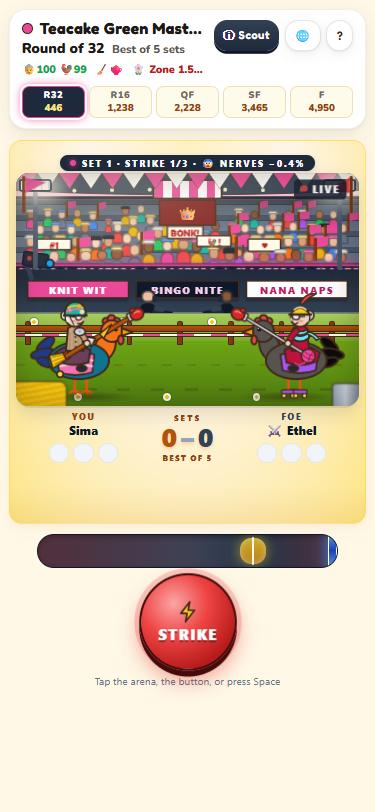
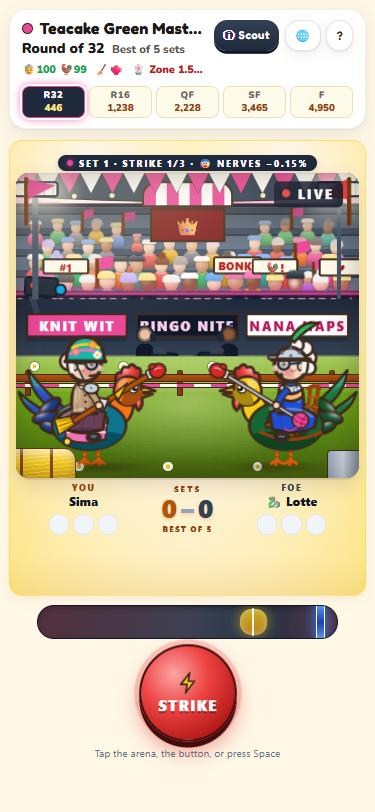
A bolder match: the round rooster back with cel shading, grannies with bigger heads and bolder outlines, a stage about 40% bigger, no blur

diff --git a/src/components/Rider.jsx b/src/components/Rider.jsx
@@ -274,14 +274,13 @@ export function Rider(props) {
      gradient per drawing, in each shape's own box), so the cartoon reads as rounded and lit, not flat */
   var uid = useId().replace(/[^a-zA-Z0-9]/g, ""), VOL = "url(#v" + uid + ")", SICKLE = "url(#k" + uid + ")", COMB = "url(#c" + uid + ")";
   function lit(el, k) { return React.cloneElement(el, { key: k, fill: VOL, stroke: "none", style: Object.assign({}, el.props.style, { pointerEvents: "none" }) }); }
-  /* the rooster in one outline (tail root, back, neck, head, breast, belly) and his mane with pointed hackles */
-  var SIL = "M34 64 C46 56 66 57 80 53 C81 45 85 35 92 33 C99 31 104.5 36 105 42 C105.5 47 103 51 100.5 54 C102.5 63 101 76 92 85 C82 93 58 95 44 89 C36 85 31 76 34 64 Z";
-  var MANE = "M80 54 C81 45 85 35 92 33 C99 31 104.5 36 105 42 C105.5 47 103 51 100.5 54 C101 58 101 61 100 64 L97.5 72 L95.4 65.5 L92.6 74 L90.2 66.4 L87.2 73.4 L85 65.6 L82 71 L80.6 63.4 C79.4 60 79.4 57 80 54 Z";
-  var wingP = (<path d="M43 68 C53 60 69 61 76 69 C75 77 67 83 56 84 L51 87.5 L52.5 82.6 L46.6 84.4 L48.4 79.6 L42.6 79.8 C40.6 76 40.8 71.4 43 68 Z" fill={ch.wing} stroke={INK} strokeWidth="1.8" strokeLinejoin="round" />);
-  var skirt = (<path d="M36 66 Q50 54 72 63 L70 76 Q52 82 38 74 Z" fill={L.knit ? "#6b3f5a" : p.dress} />);
-  var torso = (<path d="M47 64 L49 41 Q56 36 63 41 L65 64 Z" fill={p.dress} />);
-  var faceC = (<circle cx="56" cy="30" r="9.5" fill={L.skin} stroke={INK} strokeWidth="2" />);
-  var plumage = shade(ch.body, 0.8), hackle = shade(neck, 0.78);
+  var neckE = (<ellipse cx="87" cy="60" rx="10.5" ry="15" fill={neck} transform="rotate(22 87 60)" />);
+  var wingP = (<path d="M43 68 C53 60 69 61 76 69 C75 77 67 83 56 84 L51 87.5 L52.5 82.6 L46.6 84.4 L48.4 79.6 L42.6 79.8 C40.6 76 40.8 71.4 43 68 Z" fill={ch.wing} stroke={INK} strokeWidth="2.4" strokeLinejoin="round" />);
+  var SKIRT = "M36 66 Q50 54 72 63 L70 76 Q52 82 38 74 Z";
+  var TORSO = "M46.5 64 C45.6 55 46 46.5 49.6 42 C52.6 38.6 59.4 38.6 62.4 42 C66 46.5 66.4 55 65.5 64 Z";
+  var skirt = (<path d={SKIRT} fill={L.knit ? "#6b3f5a" : p.dress} />);
+  var torso = (<path d={TORSO} fill={p.dress} />);
+  var faceC = (<circle cx="56" cy="30" r="9.5" fill={L.skin} stroke={INK} strokeWidth="2.2" />);
   return (
     <svg width={w} height={h} viewBox="0 0 140 112" aria-hidden style={{ overflow: "visible", display: "block", transform: props.flip ? "scaleX(-1)" : "none" }}>
       <defs>
@@ -302,15 +301,19 @@ export function Rider(props) {
           <stop offset="0.4" stopColor="#ef4444" />
           <stop offset="1" stopColor="#991b1b" />
         </radialGradient>
-        <clipPath id={"r" + uid}><path d={SIL} /></clipPath>
+        <clipPath id={"r" + uid}><ellipse cx="60" cy="74" rx="32" ry="21" /></clipPath>
+        <clipPath id={"hd" + uid}><circle cx="94" cy="44" r="12.5" /></clipPath>
+        <clipPath id={"sk" + uid}><path d={SKIRT} /></clipPath>
+        <clipPath id={"to" + uid}><path d={TORSO} /></clipPath>
+        <clipPath id={"fc" + uid}><circle cx="56" cy="30" r="9.5" /></clipPath>
       </defs>
       <g style={{ transformBox: "view-box", animation: REDUCED_MOTION ? "none" : (run ? "riderBob 0.22s ease-in-out infinite" : "riderIdle 1.6s ease-in-out infinite") }}>
         {/* ── Rooster ── two long sickle feathers with a sheen, then the tail coverts */}
-        <g stroke={INK} strokeWidth="1.7" strokeLinejoin="round">
+        <g stroke={INK} strokeWidth="2.2" strokeLinejoin="round">
           <path d="M35 63 Q10 52 7 26 Q22 45 39 59 Z" fill={SICKLE} />
           <path d="M33 70 Q5 67 -1 45 Q15 61 36 66 Z" fill={SICKLE} />
         </g>
-        <g stroke={INK} strokeWidth="2" strokeLinejoin="round">
+        <g stroke={INK} strokeWidth="2.4" strokeLinejoin="round">
           <ellipse cx="26" cy="58" rx="11" ry="5" fill={ch.tail} transform="rotate(-40 26 58)" />
           <ellipse cx="23" cy="67" rx="12" ry="5" fill={ch.tail} transform="rotate(-12 23 67)" />
           <ellipse cx="27" cy="76" rx="10" ry="4.5" fill={ch.tail} transform="rotate(18 27 76)" />
@@ -324,31 +327,29 @@ export function Rider(props) {
           <g style={Object.assign(svgT("68px 88px"), { animation: legB })}><path d="M68 88 L68 104 M63 107 L68 104 L73 107 M68 104 L69 108" /><path d="M66.6 93 L69.4 93 M66.6 97 L69.4 97 M66.6 101 L69.4 101" stroke="#9a3412" strokeWidth="0.9" />{saddle === "skates" && (<Skate x={68} />)}</g>
           <g style={Object.assign(svgT("56px 88px"), { animation: legA })}><path d="M56 88 L56 104 M51 107 L56 104 L61 107 M56 104 L57 108" /><path d="M54.6 93 L57.4 93 M54.6 97 L57.4 97 M54.6 101 L57.4 101" stroke="#9a3412" strokeWidth="0.9" />{saddle === "skates" && (<Skate x={56} />)}</g>
         </g>
-        {/* one body from tail to beak, shaded like a cel drawing: a soft shadow along the belly, light on the back */}
-        <path d={SIL} fill={ch.body} stroke={INK} strokeWidth="2" strokeLinejoin="round" />
+        {/* a round, puffed-up rooster: a plump body, a short neck, a big head with googly eyes — cel-shaded like a cartoon */}
+        <g stroke={INK} strokeWidth="2.4" strokeLinejoin="round">
+          {neckE}
+          <path d="M83 37 Q82 27 87.6 28.4 Q88.4 21.4 94 23.6 Q97 18.2 101 24 Q106.4 23.4 104.4 31.4 Q104 36.6 99 37.4 Z" fill={COMB} />
+          <circle cx="94" cy="44" r="12.5" fill={neck} />
+          <path d="M105 39.4 L117.5 44 L105 45.6 Z" fill="#fbbf24" />
+          <path d="M105 45.6 L115 46.8 L104.6 50.4 Z" fill="#d97706" />
+          <path d="M101 50 Q98.6 57.4 102.8 61 Q107.6 57.6 105.6 50 Z" fill={COMB} />
+          <ellipse cx="60" cy="74" rx="32" ry="21" fill={ch.body} />
+        </g>
         <g clipPath={"url(#r" + uid + ")"}>
-          <ellipse cx="64" cy="100" rx="48" ry="21" fill={shade(ch.body, 0.66)} />
-          <ellipse cx="56" cy="61" rx="25" ry="6.5" fill="#fff" opacity="0.24" />
-          <path d="M40 80 C52 88 74 90 90 82" fill="none" stroke="#fff" strokeWidth="1" opacity="0.18" />
+          <ellipse cx="66" cy="99" rx="46" ry="20" fill={shade(ch.body, 0.66)} />
+          <ellipse cx="53" cy="60" rx="22" ry="6" fill="#fff" opacity="0.28" />
         </g>
-        <g fill="none" stroke={plumage} strokeWidth="1.2" strokeLinecap="round" opacity="0.8">
-          <path d="M84 78 q2.6 2.6 5.2 0 M80.6 83.4 q2.6 2.6 5.2 0 M86 83.4 q2.4 2.4 4.8 0 M76 88 q2.4 2.4 4.8 0 M81.6 88.4 q2.4 2.4 4.8 0" />
+        <g clipPath={"url(#hd" + uid + ")"}>
+          <circle cx="99.5" cy="53" r="11" fill={shade(neck, 0.68)} />
+          <circle cx="89" cy="37" r="5" fill="#fff" opacity="0.3" />
         </g>
-        {/* the comb sits behind the mane; the mane's pointed hackles fall over the shoulders */}
-        <path d="M84.5 37 Q84 29.5 88.2 30.4 Q89 25 93.3 26.8 Q95.4 22.6 98.6 27 Q102.6 26.4 101.4 32.4 Q101.2 36.4 97.6 37.2 Z" fill={COMB} stroke={INK} strokeWidth="1.8" strokeLinejoin="round" />
-        <path d={MANE} fill={neck} stroke={INK} strokeWidth="1.8" strokeLinejoin="round" />
-        {lit(<path d={MANE} />, "mn")}
-        <path d="M84 60 L85.6 66 M88.6 61 L90.4 68 M93.4 60 L95 66" fill="none" stroke={hackle} strokeWidth="1.1" strokeLinecap="round" opacity="0.8" />
-        <g stroke={INK} strokeWidth="1.6" strokeLinejoin="round">
-          <path d="M104 40.6 L115 44.4 L104 45.2 Z" fill="#fbbf24" />
-          <path d="M104 45.2 L113 46.2 L104 49 Z" fill="#d97706" />
-          <path d="M101 48.8 Q99.4 54.6 102.6 58 Q106.4 55.4 105 49 Z" fill={COMB} />
-        </g>
-        <circle cx="98" cy="42" r="2.7" fill="#f59e0b" stroke="#78350f" strokeWidth="0.6" />
-        <circle cx="98.3" cy="42" r="1.45" fill="#111" />
-        <circle cx="98.9" cy="41.2" r="0.6" fill="#fff" />
-        <circle cx="105.4" cy="42.4" r="0.5" fill="#78350f" />
-        {(pose === "charge" || props.running) && (<line x1="94.5" y1="37.2" x2="101.5" y2="39.6" stroke="#111" strokeWidth="2" strokeLinecap="round" />)}
+        <ellipse cx="98.4" cy="41" rx="4.1" ry="4.9" fill="#fff" stroke={INK} strokeWidth="1.3" />
+        <circle cx="99.7" cy="41.8" r="2.3" fill="#111" />
+        <circle cx="100.4" cy="40.8" r="0.85" fill="#fff" />
+        <circle cx="107.4" cy="42.2" r="0.6" fill="#78350f" />
+        {(pose === "charge" || props.running) && (<line x1="93.6" y1="34.8" x2="103" y2="37.6" stroke="#111" strokeWidth="2.3" strokeLinecap="round" />)}
         <g style={Object.assign(svgT("46px 68px"), { animation: REDUCED_MOTION ? "none" : (run ? "wingFlap 0.22s ease-in-out infinite" : "wingIdle 1.6s ease-in-out infinite") })}>
           {wingP}
           {lit(wingP, "w")}
@@ -364,14 +365,25 @@ export function Rider(props) {
           <g transform="translate(56 66) scale(1.14) translate(-56 -66)">
           {/* her shadow on the rooster's back */}
           <ellipse cx="56" cy="71" rx="19" ry="4.2" fill="#1c0f05" opacity="0.18" />
-          <g stroke={INK} strokeWidth="2" strokeLinejoin="round">
+          <g stroke={INK} strokeWidth="2.4" strokeLinejoin="round">
             {skirt}
             <ellipse cx="63" cy="82" rx="5" ry="3" fill="#1f2937" />
             {torso}
           </g>
-          {lit(skirt, "sk")}{lit(torso, "to")}
+          {/* cel shading like the rooster's: shadow on the side away from the light, a highlight where it falls */}
+          <g clipPath={"url(#sk" + uid + ")"}>
+            <ellipse cx="58" cy="83" rx="24" ry="8" fill="#1c0f05" opacity="0.26" />
+            <path d="M40 66 Q50 58 66 61" fill="none" stroke="#fff" strokeWidth="2.2" strokeLinecap="round" opacity="0.28" />
+          </g>
+          <g clipPath={"url(#to" + uid + ")"}>
+            <path d="M59.5 38 C66.5 43 68 54 67 65 L58.6 65 C61.6 56 62 46 59.5 38 Z" fill="#1c0f05" opacity="0.24" />
+            <ellipse cx="50.2" cy="48" rx="2.6" ry="8" fill="#fff" opacity="0.26" />
+          </g>
           <path d="M44 72 Q47 66 46 62 M54 75 Q56 69 55 63 M63 74 Q64 69 63.4 64" fill="none" stroke={INK} strokeWidth="0.9" strokeLinecap="round" opacity="0.28" />
           <ellipse cx="63" cy="81.4" rx="2.4" ry="0.9" fill="#fff" opacity="0.35" />
+          {/* a lace collar */}
+          <path d="M50.6 41 Q56 45.4 61.4 41 Q60 45.2 56 46 Q52 45.2 50.6 41 Z" fill="#fffbeb" stroke={INK} strokeWidth="1" strokeLinejoin="round" />
+          <path d="M52.4 43.4 l0.8 0.8 M55.6 45 l0 1 M58.8 43.6 l-0.8 0.8" stroke="#d6d3d1" strokeWidth="0.7" strokeLinecap="round" />
           {L.knit ? (
             <g>
               <path d="M51 45 L50.5 62 M55 44 L55 63 M59 45 L59.5 63" stroke={INK} strokeWidth="0.8" opacity="0.22" />
@@ -381,10 +393,16 @@ export function Rider(props) {
             <path d="M47 45 Q56 53 65 45 L65 51 Q56 58 47 51 Z" fill={p.shawl} stroke={INK} strokeWidth="2" strokeLinejoin="round" />
           )}
           {(L.acc === "pearls" || L.acc === "scarf") && (<Accessory look={L} scarf={p.shawl} />)}
-          <g transform="translate(56 40) scale(1.1) translate(-56 -40)">
+          <g transform="translate(56 40) scale(1.32) translate(-56 -40)">
           <HairBack look={L} />
           {faceC}
-          {lit(faceC, "fc")}
+          <g clipPath={"url(#fc" + uid + ")"}>
+            <circle cx="62.5" cy="36.5" r="8.5" fill="#7c2d12" opacity="0.16" />
+            <circle cx="51.5" cy="25" r="7" fill="#fff" opacity="0.28" />
+          </g>
+          <ellipse cx="50.4" cy="31" rx="1.6" ry="2.2" fill={L.skin} stroke={INK} strokeWidth="1" />
+          <path d="M50.2 30 Q49.6 31 50.4 32" fill="none" stroke={shade(L.skin, 0.7)} strokeWidth="0.6" />
+          <g fill={L.hair} stroke={INK} strokeWidth="0.8"><circle cx="49.8" cy="24.6" r="1.9" /><circle cx="52" cy="22.9" r="1.9" /><circle cx="54.6" cy="22" r="1.8" /></g>
           <path d="M49.3 24.5 Q47.4 28.5 48.7 33.5" fill="none" stroke={L.hair} strokeWidth="2.6" strokeLinecap="round" />
           <path d="M49.8 25.4 Q48.8 28 49.4 30.6" fill="none" stroke="#fff" strokeWidth="0.8" strokeLinecap="round" opacity="0.6" />
           <circle cx="57.5" cy="34" r="2.4" fill="#fb7185" opacity="0.5" />

diff --git a/src/components/JoustStage.jsx b/src/components/JoustStage.jsx
@@ -7,7 +7,7 @@
 
 import * as React from "react";
 import { Rider, Feathers } from "./Rider";
-import { REDUCED_MOTION, LOW_END } from "./fx";
+import { REDUCED_MOTION } from "./fx";
 import ArenaBackdrop from "./ArenaBackdrop";
 
 const { useState, useEffect, useRef } = React;
@@ -55,10 +55,12 @@ export default function JoustStage(props) {
     return function () { ro.disconnect(); };
   }, []);
 
-  /* The frame: a tall stage, riders ~40% of its width; the lane starts at 62% of the height */
-  var rw = Math.round(Math.min(220, Math.max(110, W * 0.4)));
+  /* The frame: a big stage, riders nearly half its width, as tall as the screen allows (at most 40% of it, so the
+     bar and the STRIKE button always fit below and never move); the lane starts at 60% of the height */
+  var rw = Math.round(Math.min(260, Math.max(120, W * 0.47)));
   var k = rw / 140, rh = rw * 0.8;
-  var H = Math.round(Math.max(210, Math.min(380, W * 0.68)));
+  var vh = typeof window !== "undefined" && window.innerHeight ? window.innerHeight : 800;
+  var H = Math.round(Math.max(220, Math.min(460, W * 0.95, vh * 0.4)));
   var laneTop = Math.round(H * 0.6);
   var railY = Math.round(laneTop + (H - laneTop) * 0.3);   /* the tilt runs behind both riders */
   var railH = Math.round(Math.max(12, 16 * k));
@@ -195,7 +197,7 @@ export default function JoustStage(props) {
      {/* everything inside shakes on a big clash */}
      <div style={{ position: "absolute", inset: 0, animation: shake }}>
       {/* The stands, drawn for a smaller lane and enlarged; further back, so they move less with the camera */}
-      <div style={{ position: "absolute", left: 0, top: 0, width: W, height: laneTop, transform: "scale(" + standZ + ")", transformOrigin: camOrigin, transition: cam.t, willChange: "transform", filter: LOW_END || REDUCED_MOTION ? "none" : "blur(0.6px) saturate(0.92)" }}>{/* a shallow focus: the stands sit just soft behind the riders */}
+      <div style={{ position: "absolute", left: 0, top: 0, width: W, height: laneTop, transform: "scale(" + standZ + ")", transformOrigin: camOrigin, transition: cam.t, willChange: "transform" }}>
         <div style={{ position: "absolute", left: 0, top: 0, width: W / bs, height: BACKDROP_GROUND, transform: "scale(" + bs + ")", transformOrigin: "0 0" }}>
           <ArenaBackdrop W={W / bs} groundTop={BACKDROP_GROUND} tierColor={props.tierColor} tier={props.tier} cond={props.cond} cheerId={a ? a.id : 0} cheer={cheer} />
           <Bunting color={props.tierColor || "#f59e0b"} />
@@ -244,10 +246,10 @@ export default function JoustStage(props) {
 
       {/* the foreground: a hay bale and a bucket close to the camera, slightly soft, moving more than the lane */}
       <div aria-hidden style={{ position: "absolute", inset: 0, zIndex: 7, pointerEvents: "none", transform: "scale(" + frontZ + ")", transformOrigin: camOrigin, transition: cam.t, willChange: "transform" }}>
-        <div style={{ position: "absolute", left: -18 * k, bottom: -14 * k, width: 70 * k, height: 40 * k, borderRadius: 10 * k, filter: "blur(1.2px)", border: "1.5px solid rgba(63,42,29,0.8)",
+        <div style={{ position: "absolute", left: -18 * k, bottom: -14 * k, width: 70 * k, height: 40 * k, borderRadius: 10 * k, border: "1.5px solid rgba(63,42,29,0.8)",
           background: "linear-gradient(90deg, transparent 30%, rgba(120,53,15,0.85) 30% 34%, transparent 34% 68%, rgba(120,53,15,0.85) 68% 72%, transparent 72%), repeating-linear-gradient(175deg, rgba(255,251,235,0.35) 0 1px, transparent 1px 4px), linear-gradient(180deg,#fde68a 0%,#facc15 35%,#ca8a04 100%)",
           boxShadow: "inset 0 -8px 10px rgba(120,53,15,0.4), inset 0 4px 6px rgba(255,251,235,0.4)" }} />
-        <div style={{ position: "absolute", right: -6 * k, bottom: -10 * k, width: 34 * k, height: 34 * k, borderRadius: "4px 4px 10px 10px", background: "linear-gradient(90deg,#94a3b8,#cbd5e1 40%,#64748b)", border: "2px solid #3f2a1d", filter: "blur(1px)" }} />
+        <div style={{ position: "absolute", right: -6 * k, bottom: -10 * k, width: 34 * k, height: 34 * k, borderRadius: "4px 4px 10px 10px", background: "linear-gradient(90deg,#94a3b8,#cbd5e1 40%,#64748b)", border: "2px solid #3f2a1d" }} />
       </div>
      </div>
      </div>
